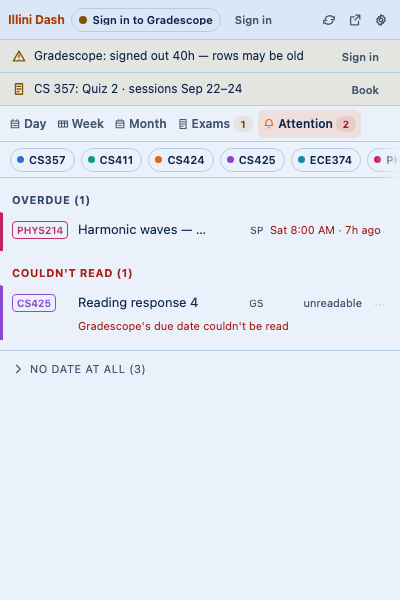
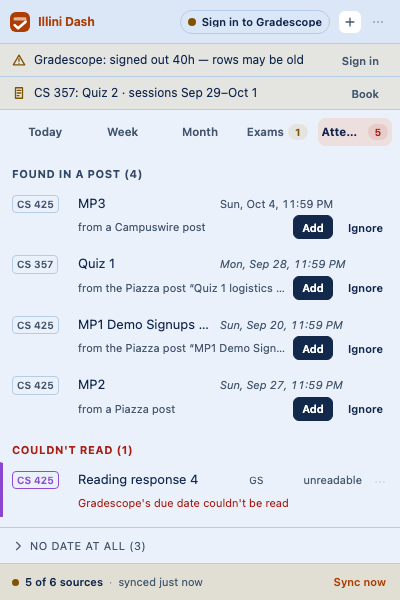
Wave 12 / W0 recorded, with the captures that verify it
npm run shots in both modes, dark first — the popup and the full view. The
suite does not import the popup, so the shots and the pointer-driven checks in
dist/preview-popup.html are the evidence this change has.

diff --git a/PROGRESS.md b/PROGRESS.md
@@ -7,6 +7,65 @@ Spec: SPEC.md. Build order §10, gates §9. Detailed evidence lives in `docs/`.
 **Steps 1–12 are done. G0–G3 have passed. G4 and G5 are Sushi's and cannot start
 from here.**
 
+## Wave 12 / W0: popup.ts split, and the new shell — 2026-09-19
+
+**1970 tests, unchanged — the suite does not import the popup, so none of this is pinned
+by it.** Verified instead by `npm run typecheck`, `npm run build`, `npm run shots` in
+both modes (dark first), and by real pointer events in `dist/preview-popup.html`.
+
+**The split.** `src/ui/popup.ts` (3809 lines) became `src/ui/popup/` and a 523-line entry
+that owns `render` / `refresh` / `draw` / `runSync` / `recheckLogins` and the four
+listeners that keep an open window honest. `state.ts` holds the document's elements, the
+`localStorage` keys and one mutable `state` record; `shell.ts` the header, tabs, banners,
+`#status`, footer, every menu and `placeFloating` / `trapMenuKeys` / `drawIsHeld`;
+`rows.ts` the row; `views/{day,week,month,exams,attention}.ts` and
+`screens/{setup,editor}.ts` the rest. Every function moved whole with the comment that
+explains it. **The cycle it would otherwise have had is one object**: `state.ts` imports
+nothing local and carries `app` — `refresh`, `runSync`, `openAddEditor`, `openEditEditor`,
+`deleteManual`, `undoDelete` — assigned once at the bottom of the entry, so `shell` never
+imports a view or a screen.
+
+**The shell (D9, D10).** Header is `[mark] Illini Dash [pill] [+] [⋯]`: the mark is a new
+`appMark()` in `icons.ts`, drawn from `--brand-mark` and `--surface-raised` so it works in
+all six theme/mode combinations. Sync, full view, .ics and Settings came off the bar; the
+⋯ carries Open full view, Download .ics, Google Calendar…, Courses…, Appearance…,
+Settings. **Courses replaces the chip strip** — `renderFilters` is kept and reachable but
+no longer called, and `.filters:empty` collapses it. The tab strip is five `flex: 1`
+columns, so the strip's width is a function of the document rather than of the labels: a
+long label ellipses inside its fifth and can no longer push the popup to 800px. The
+footer is `position: sticky; bottom: 0` **in flow** — a fixed strip contributes no height
+and the document's height is all Chrome measures — and every word of it is derived from
+an attempt that happened: `summarize()` for the ratio, the newest `lastSuccessAt` across
+checkable sources for the clock, never `lastSyncAt` (worker rule 2). `#status` moved to
+the top of the document beside `#banners`, which retires the `scrollIntoView` that never
+worked on the week view (UI rule 3).
+
+**Measured** at 400×600, day tab, healthy: `html` 400px wide, `body.scrollWidth` 400, **0
+elements past x=401**; header 44, banners 66, tabs 42, date nav 32 — **184px before the
+first row**, against 210 before (the chip strip's 36 back, minus 10 of header and tabs) —
+footer 37, document 513. (`documentElement.scrollWidth` cannot be read as 400 in headless
+Chrome: macOS pins its minimum window to 500px, so it reports the viewport. `htmlW` and
+the right-edge sweep are the measurements that mean it.) D1's five labels need
+37/34/39/48/40px in a 74px column, so "No date" fits with 26px to spare.
+
+**Card language**, for the workers building on this: `.card`, `.card--dashed`,
+`.section-head`, `.screen` / `.screen-bar` in `popup.css`, documented in a block at the
+top of that file. Two new tokens in `ui.css` — `--card-line` and `--card-shadow` — with
+light, dark, Neutral, Neutral-dark, High-contrast and High-contrast-dark values.
+`popup-rows.css`, `popup-views.css`, `popup-screens.css` exist and are linked, empty but
+for a header, one per parallel worker.
+
+**Not preserved, deliberately:** the pill's inline action button (the same button is in
+the source list the pill opens, and at 400px a second control beside the sentence costs
+the sentence); the tab icons in the popup (five equal columns have no room for one, and
+the full view keeps them); the course chip strip (above). **Not built:** the header's
+Google Calendar entry opens Settings › Google Calendar rather than doing anything itself —
+the popup's actions bar never had a gcal control, and `gcal-connect` needs
+`getAuthToken({interactive: true})` from a page that stays open, which a popup is not.
+**Still wrong until D1 lands:** the fifth tab reads "Atten…" — "Attention" plus its badge
+needs 83px in a 74px column. It ellipses rather than pushing, which is the property that
+matters, and the label goes when `nodate` does.
+
 ## Wave 10: the page is read without the model — 2026-09-19
 
 **1939 → 1970 tests.** Third live run of the author on ECE 411: "only 1 of 3 rows carried
